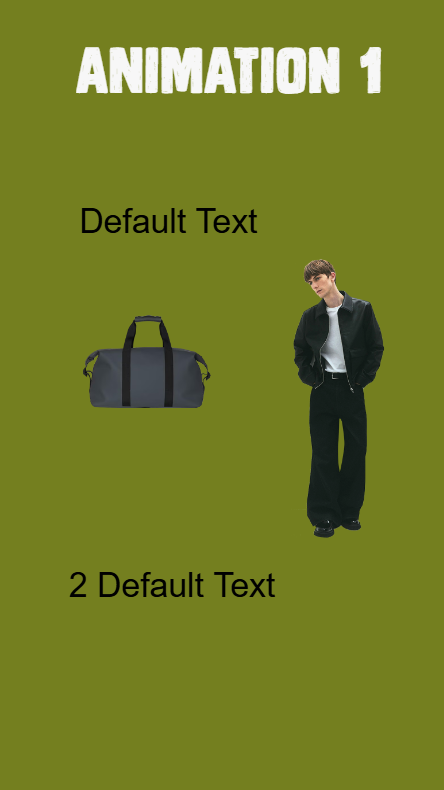
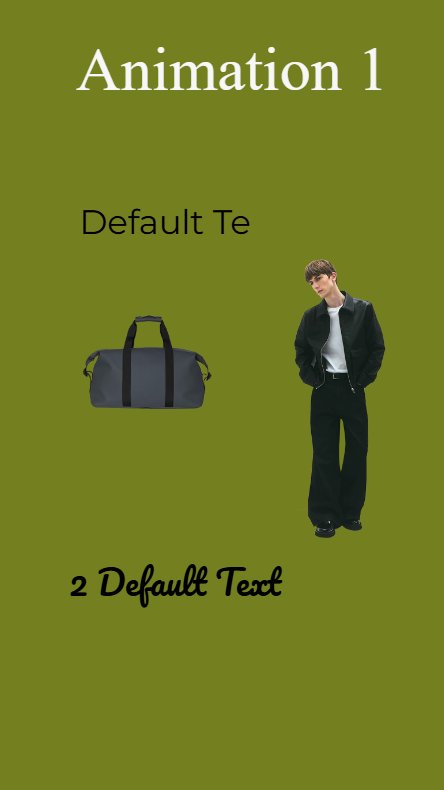
font issue solve

diff --git a/AnimationProject/wwwroot/js/action.js b/AnimationProject/wwwroot/js/action.js
@@ -518,79 +518,7 @@ function RedirectToVerticalPageDirect() {
 }
 // Restore the canvas from your JSON data
 // Modified loadCanvasFromJson with auto-fit (finishEditing) integration
-function loadCanvasFromJson1(jsonData, condition = 'Common') {
-    ctx.clearRect(0, 0, canvas.width, canvas.height);
-    currentCondition = condition;
-    if (!jsonData) {
-        document.fonts.ready.then(() => drawCanvas(condition));
-        return;
-    }
 
-    // parse JSON
-    let data = typeof jsonData === 'string' ? JSON.parse(jsonData) : jsonData;
-    slideData = data;
-
-    // set background color
-    canvasBgColor = data.canvasBgColor || '#ffffff';
-    document.getElementById('hdnBackgroundSpecificColor').value = canvasBgColor;
-    canvas.style.backgroundColor = canvasBgColor;
-
-    // preload background image
-    if (data.canvasBgImage) {
-        slideData._bgImg = new Image();
-        slideData._bgImg.crossOrigin = 'anonymous';
-        slideData._bgImg.src = data.canvasBgImage;
-    } else {
-        slideData._bgImg = null;
-    }
-
-    // convert & store text objects
-    const dpr = window.devicePixelRatio || 1;
-    const screenW = canvas.width / dpr;
-    const screenH = canvas.height / dpr;
-    textObjects = (data.text || []).map(obj => ({
-        text: obj.text,
-        x: obj.x * screenW,
-        y: obj.y * screenH,
-        boundingWidth: obj.boundingWidth * screenW,
-        boundingHeight: obj.boundingHeight * screenH,
-        fontSize: obj.fontSize,
-        fontFamily: obj.fontFamily,
-        textColor: obj.textColor,
-        textAlign: obj.textAlign,
-        opacity: obj.opacity,
-        selected: false
-    }));
-
-    // preload images
-    images = (data.images || []).map(imgObj => {
-        const o = { ...imgObj };
-        o.x *= screenW; o.y *= screenH;
-        o.width *= screenW; o.height *= screenH;
-        o.selected = false;
-        o.img = new Image();
-        o.img.crossOrigin = 'anonymous';
-        o.img.src = imgObj.src;
-        o.img.onload = () => drawCanvas(condition);
-        o.img.onerror = () => drawCanvas(condition);
-        return o;
-    });
-
-    // preload fonts
-    const fontPromises = textObjects.map(o =>
-        document.fonts.load(`${o.fontSize}px ${o.fontFamily}`)
-    );
-
-    // when fonts loaded, auto-fit each text then draw
-    Promise.all(fontPromises)
-        .finally(() => {
-            // finishEditing logic: shrink & wrap text to fit box
-            textObjects.forEach(obj => {
-                autoFitText(obj, padding);
-            });
-            drawCanvas(condition);
-        });
-}
 function loadCanvasFromJson(jsonData, condition = 'Common') {
     // Clear existing canvas
     ctx.clearRect(0, 0, canvas.width, canvas.height);
@@ -627,7 +555,18 @@ function loadCanvasFromJson(jsonData, condition = 'Common') {
     } else {
         canvas._bgImg = null;
     }
-    
+
+    //const fontPromises = (data.text || []).map(obj =>
+    //    document.fonts.load(`${obj.fontSize}px ${obj.fontFamily}`)
+    //);
+    //Promise.all(fontPromises)
+    //    .then(() => {
+    //        console.warn('Font failed to load:', fontPromises);
+    //    })
+    //    .catch(err => {
+    //        console.warn('Font failed to load:', err);
+           
+    //    });
 
     // Compute actual display size of the canvas
     const rect = canvas.getBoundingClientRect();
@@ -694,8 +633,12 @@ function loadCanvasFromJson(jsonData, condition = 'Common') {
 
     // Preload fonts and draw
     const fontPromises = textObjects.map(o =>
-        document.fonts.load(`${o.fontSize}px ${o.fontFamily}`)
+        setTimeout(() => {
+            document.fonts.load(`${o.fontSize}px ${o.fontFamily}`)
+        },1000)
+        
     );
+
 
     Promise.all(fontPromises).finally(() => {
         // Only auto-fit for those without manual breaks
